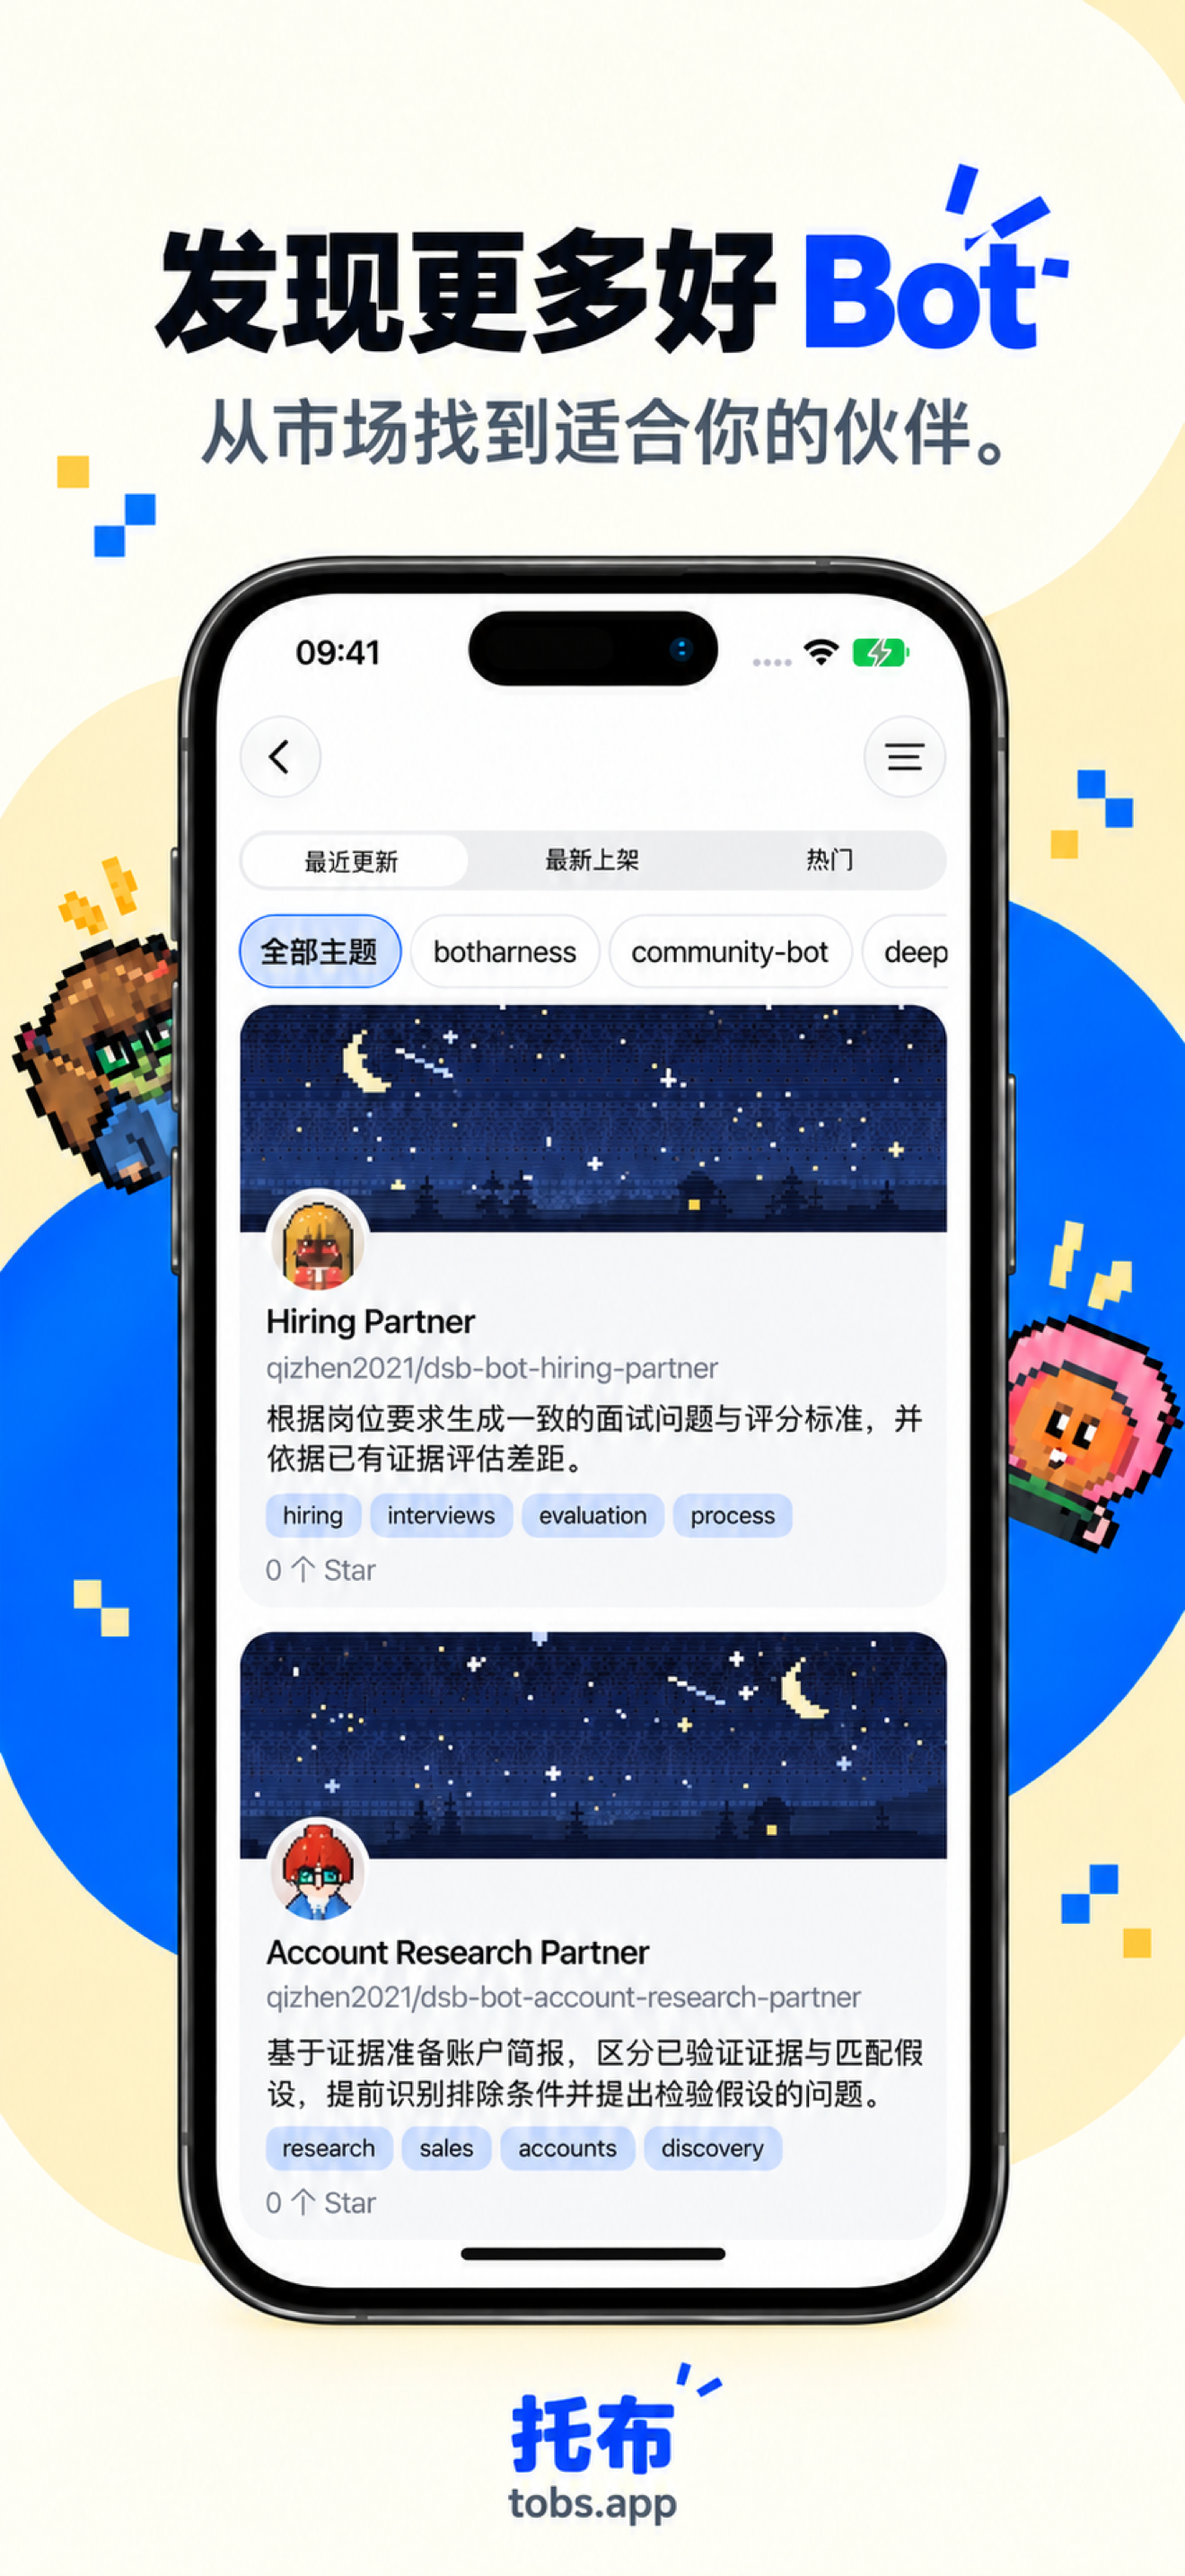
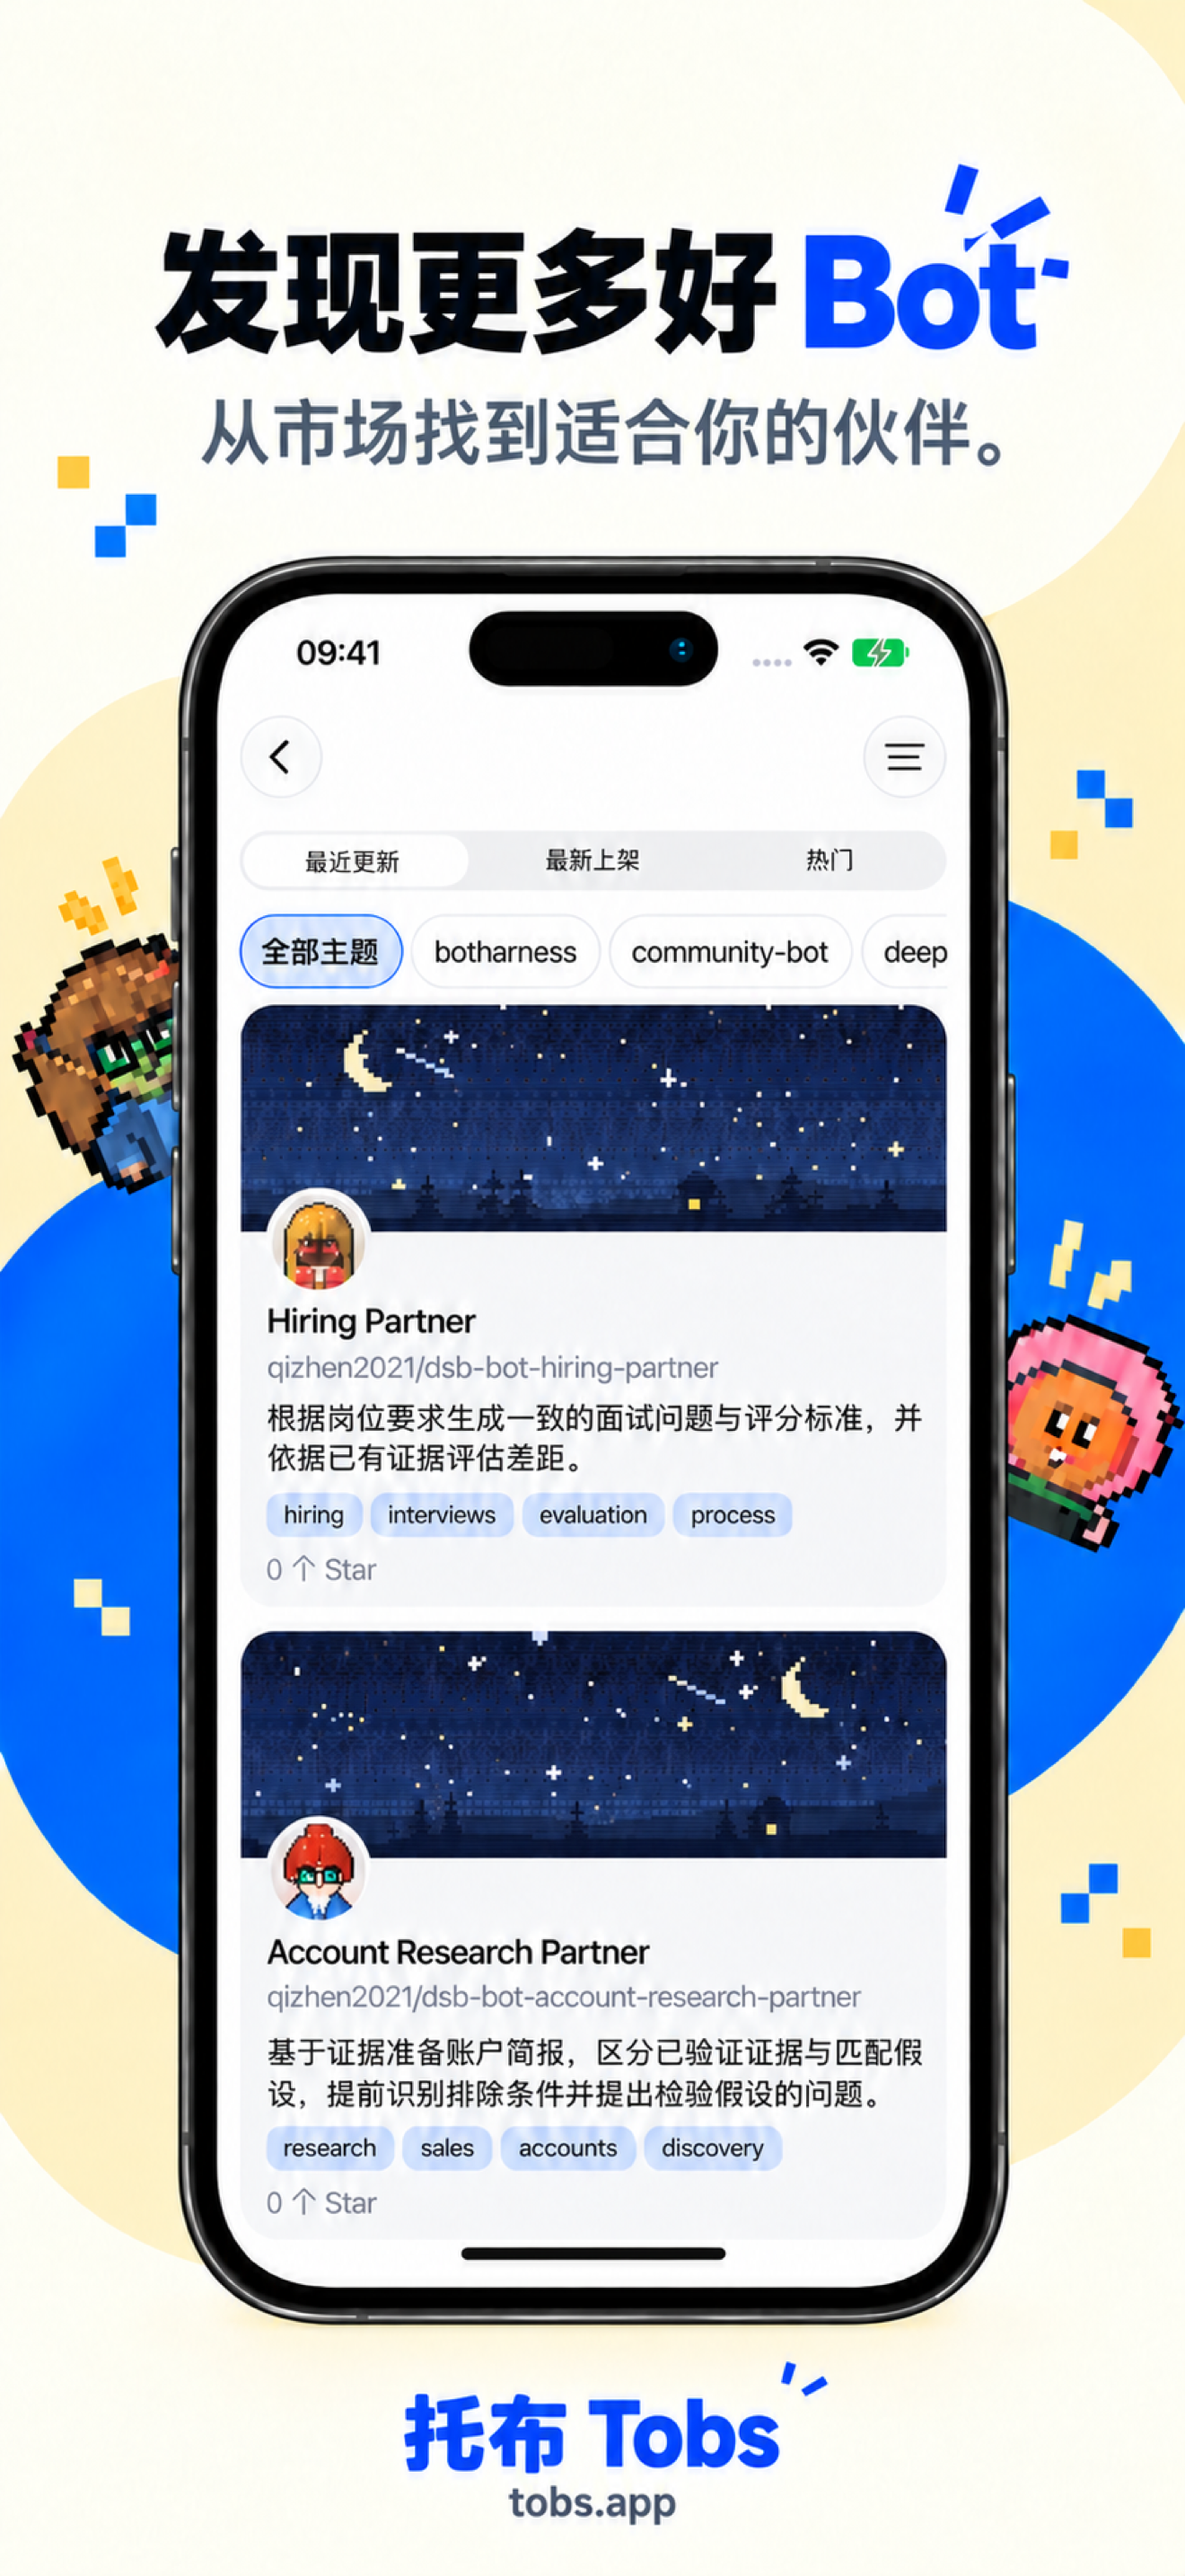
fix(ios): use 托布 Tobs for the Chinese app name and artwork (#2750)
* fix(ios): use 托布 Tobs for the Chinese app name

Issue: #2725

Agent-Task: codex/local/01a1653b-3345-7091-8284-34ceddb41e2c

* fix(ios): align Chinese promotional artwork with 托布 Tobs

Issue: #2725

Agent-Task: codex/local/01a1653b-3345-7091-8284-34ceddb41e2c

diff --git a/apps/mobile/test/ios-brand.test.ts b/apps/mobile/test/ios-brand.test.ts
@@ -12,11 +12,17 @@ const withIosBrand = require('./with-ios-brand');
 afterEach(() => vi.unstubAllEnvs());
 
 it.each([
-  ['store', 'Tobs', '托布', 'app.deepseekbot.mobile', ['deepseekbot', 'app.deepseekbot.mobile']],
+  [
+    'store',
+    'Tobs',
+    '托布 Tobs',
+    'app.deepseekbot.mobile',
+    ['deepseekbot', 'app.deepseekbot.mobile'],
+  ],
   [
     'development',
     'Tobs Dev',
-    '托布 Dev',
+    '托布 Tobs Dev',
     'ai.botharness.deepseekbot.dev',
     ['deepseekbot-dev', 'ai.botharness.deepseekbot.dev'],
   ],
@@ -44,7 +50,7 @@ it.each([
       'NSLocalNetworkUsageDescription',
     ]) {
       expect(native.infoPlist[key]).toContain('Tobs');
-      expect(config.locales['zh-Hans'].ios[key]).toContain('托布');
+      expect(config.locales['zh-Hans'].ios[key]).toContain('托布 Tobs');
     }
     expect(config.locales['zh-Hans'].ios.CFBundleDisplayName).toBe(chinese);
     expect(config.ios.bundleIdentifier).toBe(bundleId);
@@ -75,5 +81,5 @@ it('leaves Android native configuration and existing locale entries under their 
   expect(config.mods.android).toBe(androidMods);
   expect(config.locales.en).toEqual({ android: { app_name: 'Existing Android name' } });
   expect(androidName).toEqual({ en: 'Tobs', zh: '托布' });
-  expect(iosName).toEqual({ en: 'Tobs', zh: '托布' });
+  expect(iosName).toEqual({ en: 'Tobs', zh: '托布 Tobs' });
 });

diff --git a/apps/mobile/with-ios-brand.js b/apps/mobile/with-ios-brand.js
@@ -6,7 +6,7 @@ const chinese = require('./locales/zh-Hans.json');
 module.exports = (config) => {
   const store = process.env.DEEPSEEKBOT_APP_VARIANT === 'store';
   const englishName = store ? 'Tobs' : 'Tobs Dev';
-  const chineseName = store ? '托布' : '托布 Dev';
+  const chineseName = store ? '托布 Tobs' : '托布 Tobs Dev';
   config.locales = {
     ...config.locales,
     'zh-Hans': { ios: { ...chinese.ios, CFBundleDisplayName: chineseName } },

diff --git a/apps/mobile/test/ios-brand-copy.test.ts b/apps/mobile/test/ios-brand-copy.test.ts
@@ -8,7 +8,7 @@ afterEach(() => interfacePreferences.setLanguage('system'));
 
 it.each([
   ['en', 'Tobs'],
-  ['zh', '托布'],
+  ['zh', '托布 Tobs'],
 ] as const)(
   'uses the iOS brand after switching to %s without renaming compatibility keys',
   (language, name) => {

diff --git a/apps/mobile/src/ui/product-name.ios.ts b/apps/mobile/src/ui/product-name.ios.ts
@@ -1,1 +1,1 @@
-export const productName = { en: 'Tobs', zh: '托布' };
+export const productName = { en: 'Tobs', zh: '托布 Tobs' };

diff --git a/apps/mobile/store/tobs/README.md b/apps/mobile/store/tobs/README.md
@@ -1,6 +1,6 @@
-# Tobs / 托布 — iOS promotional artwork
+# Tobs / 托布 Tobs — iOS promotional artwork
 
-Twelve branded variants of the existing iOS campaign: seven English compositions (three dark), five Simplified Chinese compositions. Each PNG is 1320 × 2868, with the complete phone frame and an exterior Tobs/托布 wordmark plus `tobs.app`. The originals and native captures remain unchanged in their task evidence batches. `manifest.json` records the original poster, capture source and output hashes.
+Twelve branded variants of the existing iOS campaign: seven English compositions (three dark), five Simplified Chinese compositions. Each PNG is 1320 × 2868, with the complete phone frame and an exterior Tobs/托布 Tobs wordmark plus `tobs.app`. The originals and native captures remain unchanged in their task evidence batches. `manifest.json` records the original poster, capture source and output hashes.
 
 These are **generated marketing compositions**, not native screenshots or proof of the renamed app binary. Codex built-in imagegen edited the existing posters, and SIPS converted dimensions. No new app controls or product features were requested. Compare the phone content with the source captures during final editorial acceptance (#2736). Community README text and repository names can still contain historical DeepSeekBot; official DeepSeek model and DeepSeek Harness names remain accurate.
 
@@ -18,6 +18,6 @@ These are **generated marketing compositions**, not native screenshots or proof 
 
 ## Prompt direction
 
-Edit only exterior branding of the existing composition. Add the verbatim wordmark `Tobs` (English) or `托布` (Chinese), with `tobs.app` below it, outside and below the complete phone. Keep the headline, UI text, avatars, controls and light/dark palette. Keep all phone edges and the home indicator visible; reduce the composition or extend the matching background if needed. Do not invent icons, controls, AI labels or a watermark. Two Chinese footer variants were corrected to remove invented logo artwork.
+Edit only exterior branding of the existing composition. Add the verbatim wordmark `Tobs` (English) or `托布 Tobs` (Chinese), with `tobs.app` below it, outside and below the complete phone. Keep the headline, UI text, avatars, controls and light/dark palette. Keep all phone edges and the home indicator visible; reduce the composition or extend the matching background if needed. Do not invent icons, controls, AI labels or a watermark. Two Chinese footer variants were corrected to remove invented logo artwork.
 
 Uploading these candidates to the existing App Store Connect draft does not submit the app for App Review or publish a release. App Store Connect record, bundle IDs, EAS project, signing, App Groups, storage and deep-link schemes remain the existing identities. Native naming and upgrade verification are recorded separately on #2725.

diff --git a/changes/2725-ios-chinese-name.md b/changes/2725-ios-chinese-name.md
@@ -1,0 +1,11 @@
+---
+section: Changed
+---
+
+## en
+
+- Use “托布 Tobs” for the Chinese iOS app name, permission prompts and promotional artwork, while the English name remains “Tobs” ([#2725](https://github.com/BotHarness/DeepSeekBot/issues/2725)).
+
+## zh
+
+- iOS 中文应用名称、权限说明和宣传图统一使用“托布 Tobs”，英文名称保持“Tobs”（[#2725](https://github.com/BotHarness/DeepSeekBot/issues/2725)）。
